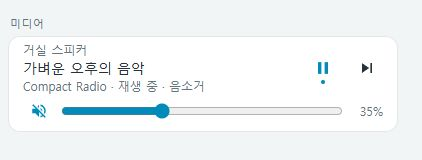
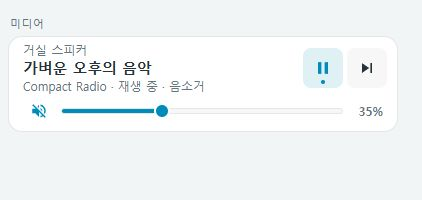
Present real room dashboards and refresh every card preview

diff --git a/images/README.md b/images/README.md
@@ -5,3 +5,9 @@ These JPEG screenshots were captured from `examples/preview.html` in a Chromium 
 Run `python -m http.server 8129 --bind 127.0.0.1` in the repository root and open `/examples/preview.html`. `?card=compact-light-row` (or any of the seven registered types) selects one card for capture. Add `&capture=true` to hide preview chrome. A 422px browser viewport leaves room for the 390px card and screenshot margins. Width, theme, and offline controls expose review states. The preview sends no real device commands.
 
 `examples/preview-icons.js` contains 24 Material Design Icon paths from Pictogrammers/MaterialDesign, used only by the preview. Source: https://github.com/Templarian/MaterialDesign/tree/master/svg . The upstream Apache-2.0 license is included as `MDI-LICENSE`. The runtime bundle has no icon dependency.
+
+## Room dashboard captures
+
+`showcase-light.jpg` and `showcase-dark.jpg` are actual Chromium captures of `examples/showcase.html?capture=true` (add `&theme=dark` for dark mode), at a 1200 × 640 viewport. `showcase-mobile.jpg` uses a 390 × 1480 viewport. Capture source: `49c1a5e`; all runtime styling and configuration changes are included. The seven individual card captures, overview and editor were also regenerated from that source.
+
+These demonstrate three room groups with ten real card instances, seven card types, mocked states, and local HA visual primitives. No image generation, screenshot-only card CSS, or real device connection is involved. The exact card configurations are in `examples/showcase.yaml`; reproduction details are in `docs/showcase.md`.

diff --git a/docs/showcase.md b/docs/showcase.md
@@ -41,3 +41,16 @@
 The showcase renders the real seven custom-card elements in coherent living-room, bedroom, and whole-home groups. Only HA's visual primitives and entity/service context are mocked. All resources are local. Use `theme=dark` for dark mode and `capture=true` to hide the theme switch while retaining the title and mock-data disclosure. Desktop layouts use three columns; narrow viewports reflow instead of scaling cards down.
 
 `examples/showcase.yaml` contains the same custom-card configurations for an HA Sections dashboard. Replace entity IDs with your own; it does not create mock entities. Representative images should be actual browser captures of this page, with capture context recorded. This is a demonstration, not live-device compatibility evidence.
+
+## 실제 카드의 시각 개선
+
+주요 값과 제목의 굵기를 정리하고, 선택한 조작과 색온도·밝기·음량 레일을 일관되게 표현했습니다. 환경·장면의 내부 칸은 반복 테두리를 줄였습니다. 이 스타일은 쇼케이스 전용이 아니라 실제 카드와 홈 패널에 적용됩니다. 냉난방은 아이콘 중심 구성을 유지합니다.
+
+320·390·760px의 실제 카드 너비에서 기존 버전과 높이를 비교하고, 밝은·어두운 테마의 숫자와 조작 영역을 검토했습니다. 쇼케이스의 2열 전원 항목은 `columns: 2` 설정으로 구성합니다.
+
+<details>
+<summary>390px 모바일 구성 보기</summary>
+
+![한 열로 재배치한 모바일 방별 대시보드](../images/showcase-mobile.jpg)
+
+</details>

diff --git a/docs/polish.md b/docs/polish.md
@@ -20,4 +20,4 @@ All seven cards receive subtle press feedback without new configuration or added
 
 Fan rotation and cover arrow movement follow actual active state only; cover Stop remains usable while an opening request is pending. Scene shortcuts briefly show request acceptance, and media playback uses a small static dot. Reconfiguration/disconnection clears feedback and prevents stale responses from labeling a different configuration. Reduced-motion preferences disable movement while retaining status feedback.
 
-[전체 카드 대표 화면](../images/overview.jpg) · [카드별 상세 가이드](../README.ko.md#카드-미리보기와-상세-가이드)
+[전체 카드 대표 화면](../images/overview.jpg) · [카드별 상세 가이드](../README.ko.md#카드와-사용-가이드)

diff --git a/CHANGELOG.md b/CHANGELOG.md
@@ -2,6 +2,8 @@
 
 ## Unreleased
 
+- Refine typography, active surfaces and slider rails without increasing card heights; replace README test-sheet previews with real room dashboard captures, matching YAML and a reproducible showcase guide.
+
 - Apply UX review refinements: direct mute controls, independent audio/transport requests, per-scene feedback, unbroken environmental numbers with smaller units, keyboard-friendly color temperature, compact cover labels, and focused/reorder-safe visual editing.
 
 - Clarify comparison periods directly beside values and retain icon-centered climate controls following the UX review.
